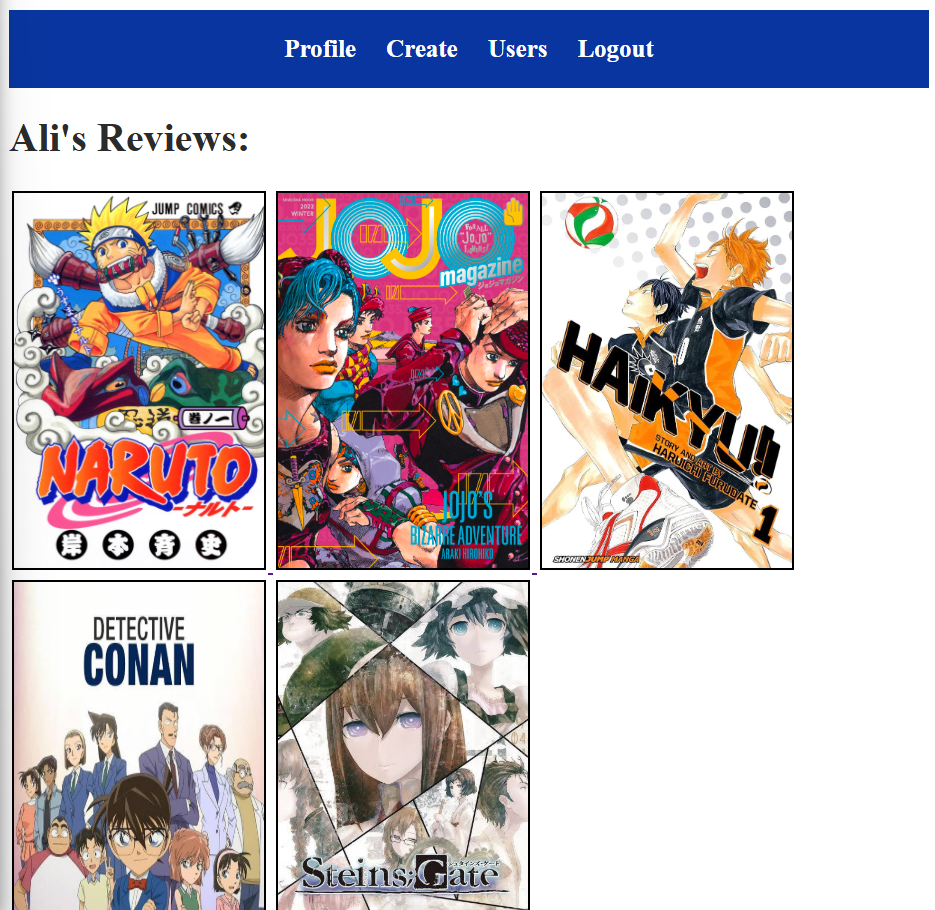
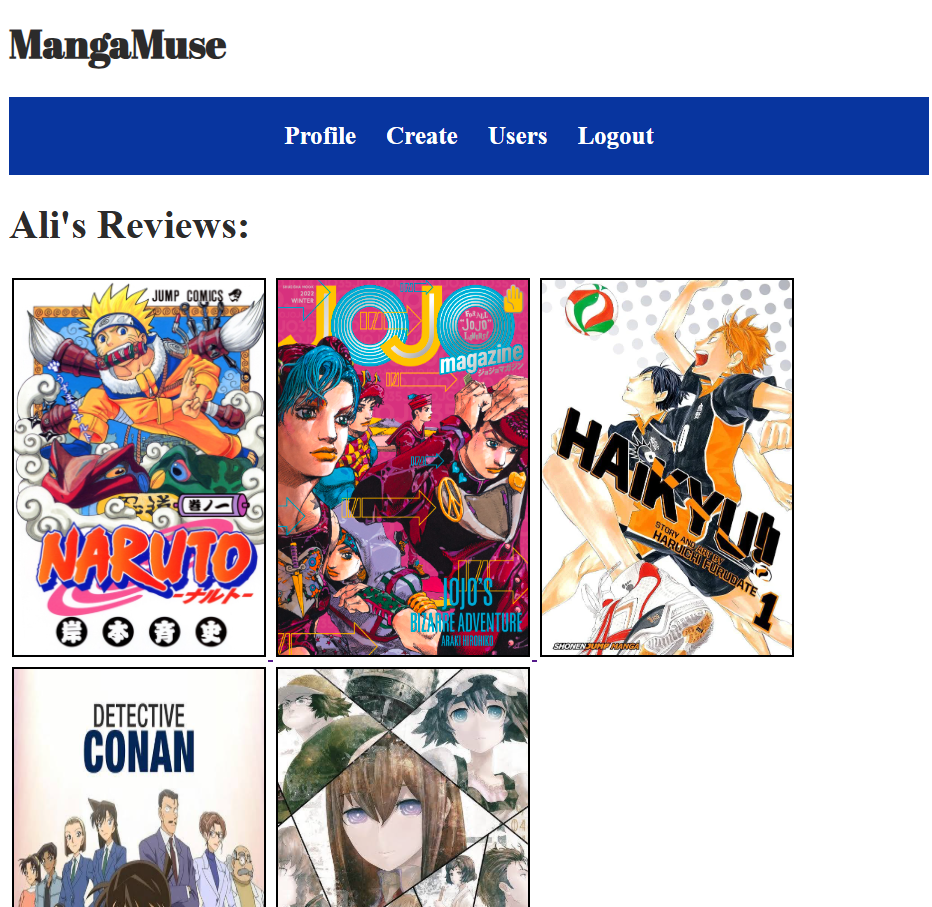
updated pictures in readme and fixed issue with users without reviews yet

diff --git a/routes/anime-routes.js b/routes/anime-routes.js
@@ -30,7 +30,9 @@ router.post("/create",async (req,res)=>{
 router.get("/",async(req,res)=>{
     try{
         const allAnime = await Anime.find({user:req.session.user._id}).populate("user")
-        res.render("anime/all-anime.ejs",{allAnime: allAnime})
+                const foundUser = await User.findById(req.session.user._id)
+
+        res.render("anime/all-anime.ejs",{allAnime: allAnime,foundUser})
     }catch (error){
         console.log(error)
     }

diff --git a/public/css/navbar.css b/public/css/navbar.css
@@ -20,7 +20,7 @@ nav a:hover {
 .logo{  
   text-align: left;
   font-family: "Abril Fatface", serif;
-  font-weight: 400;
+  font-weight: lighter;
   font-style: normal;
   text-decoration: none;
   color: #2c2b2b;
